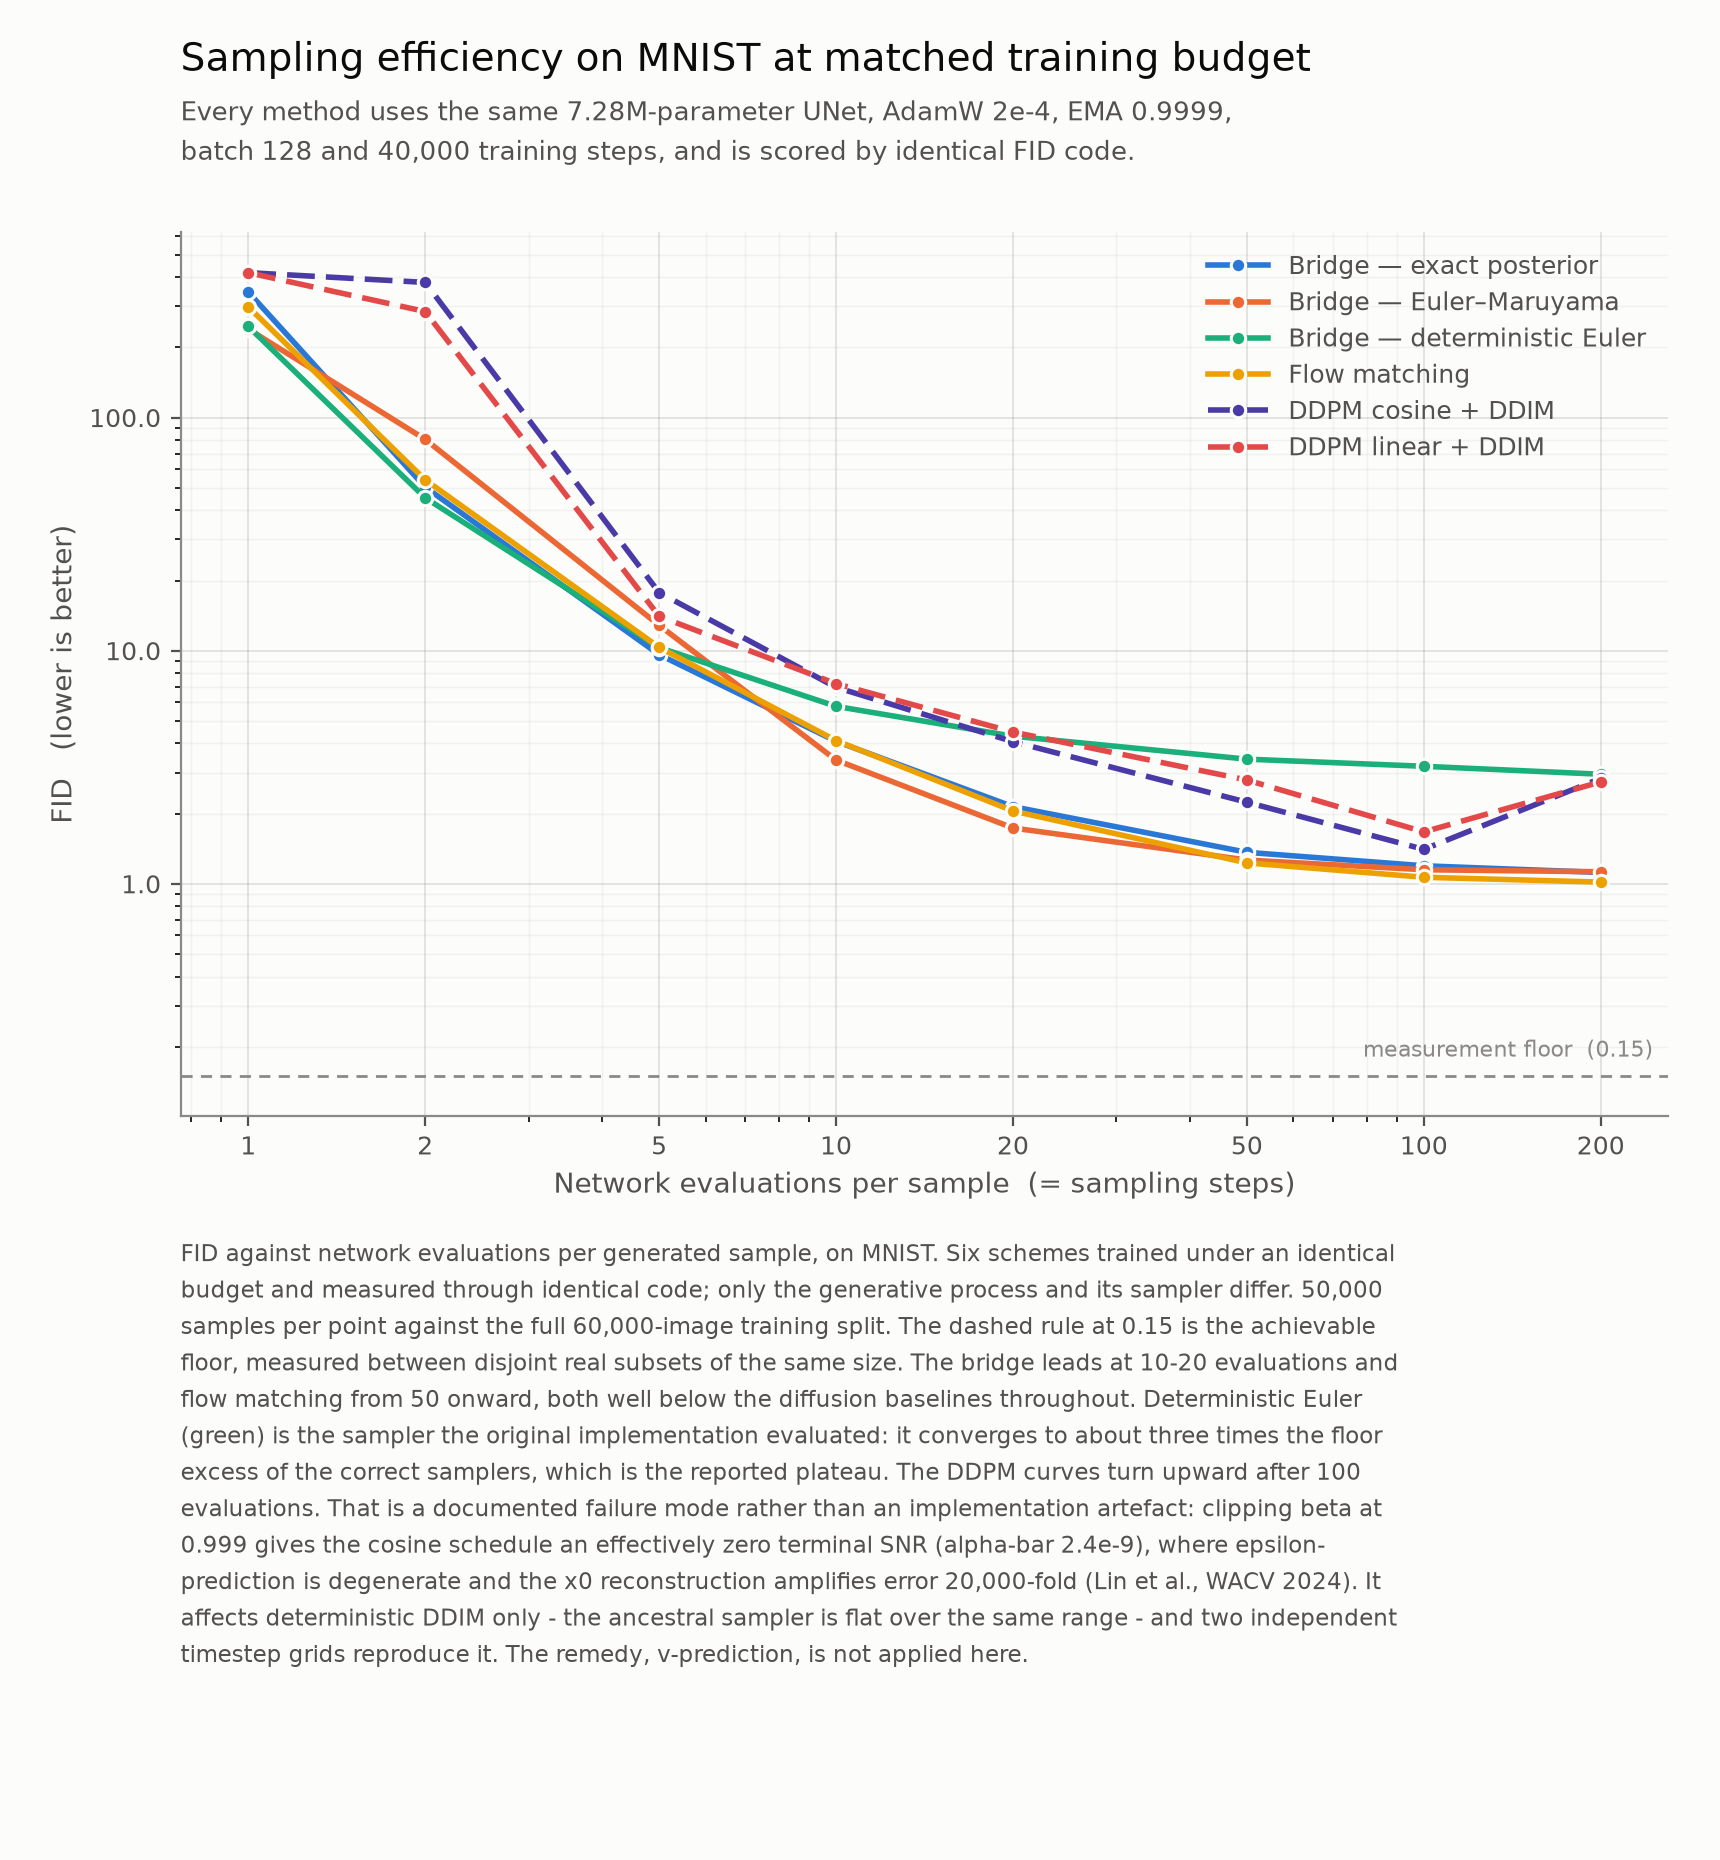
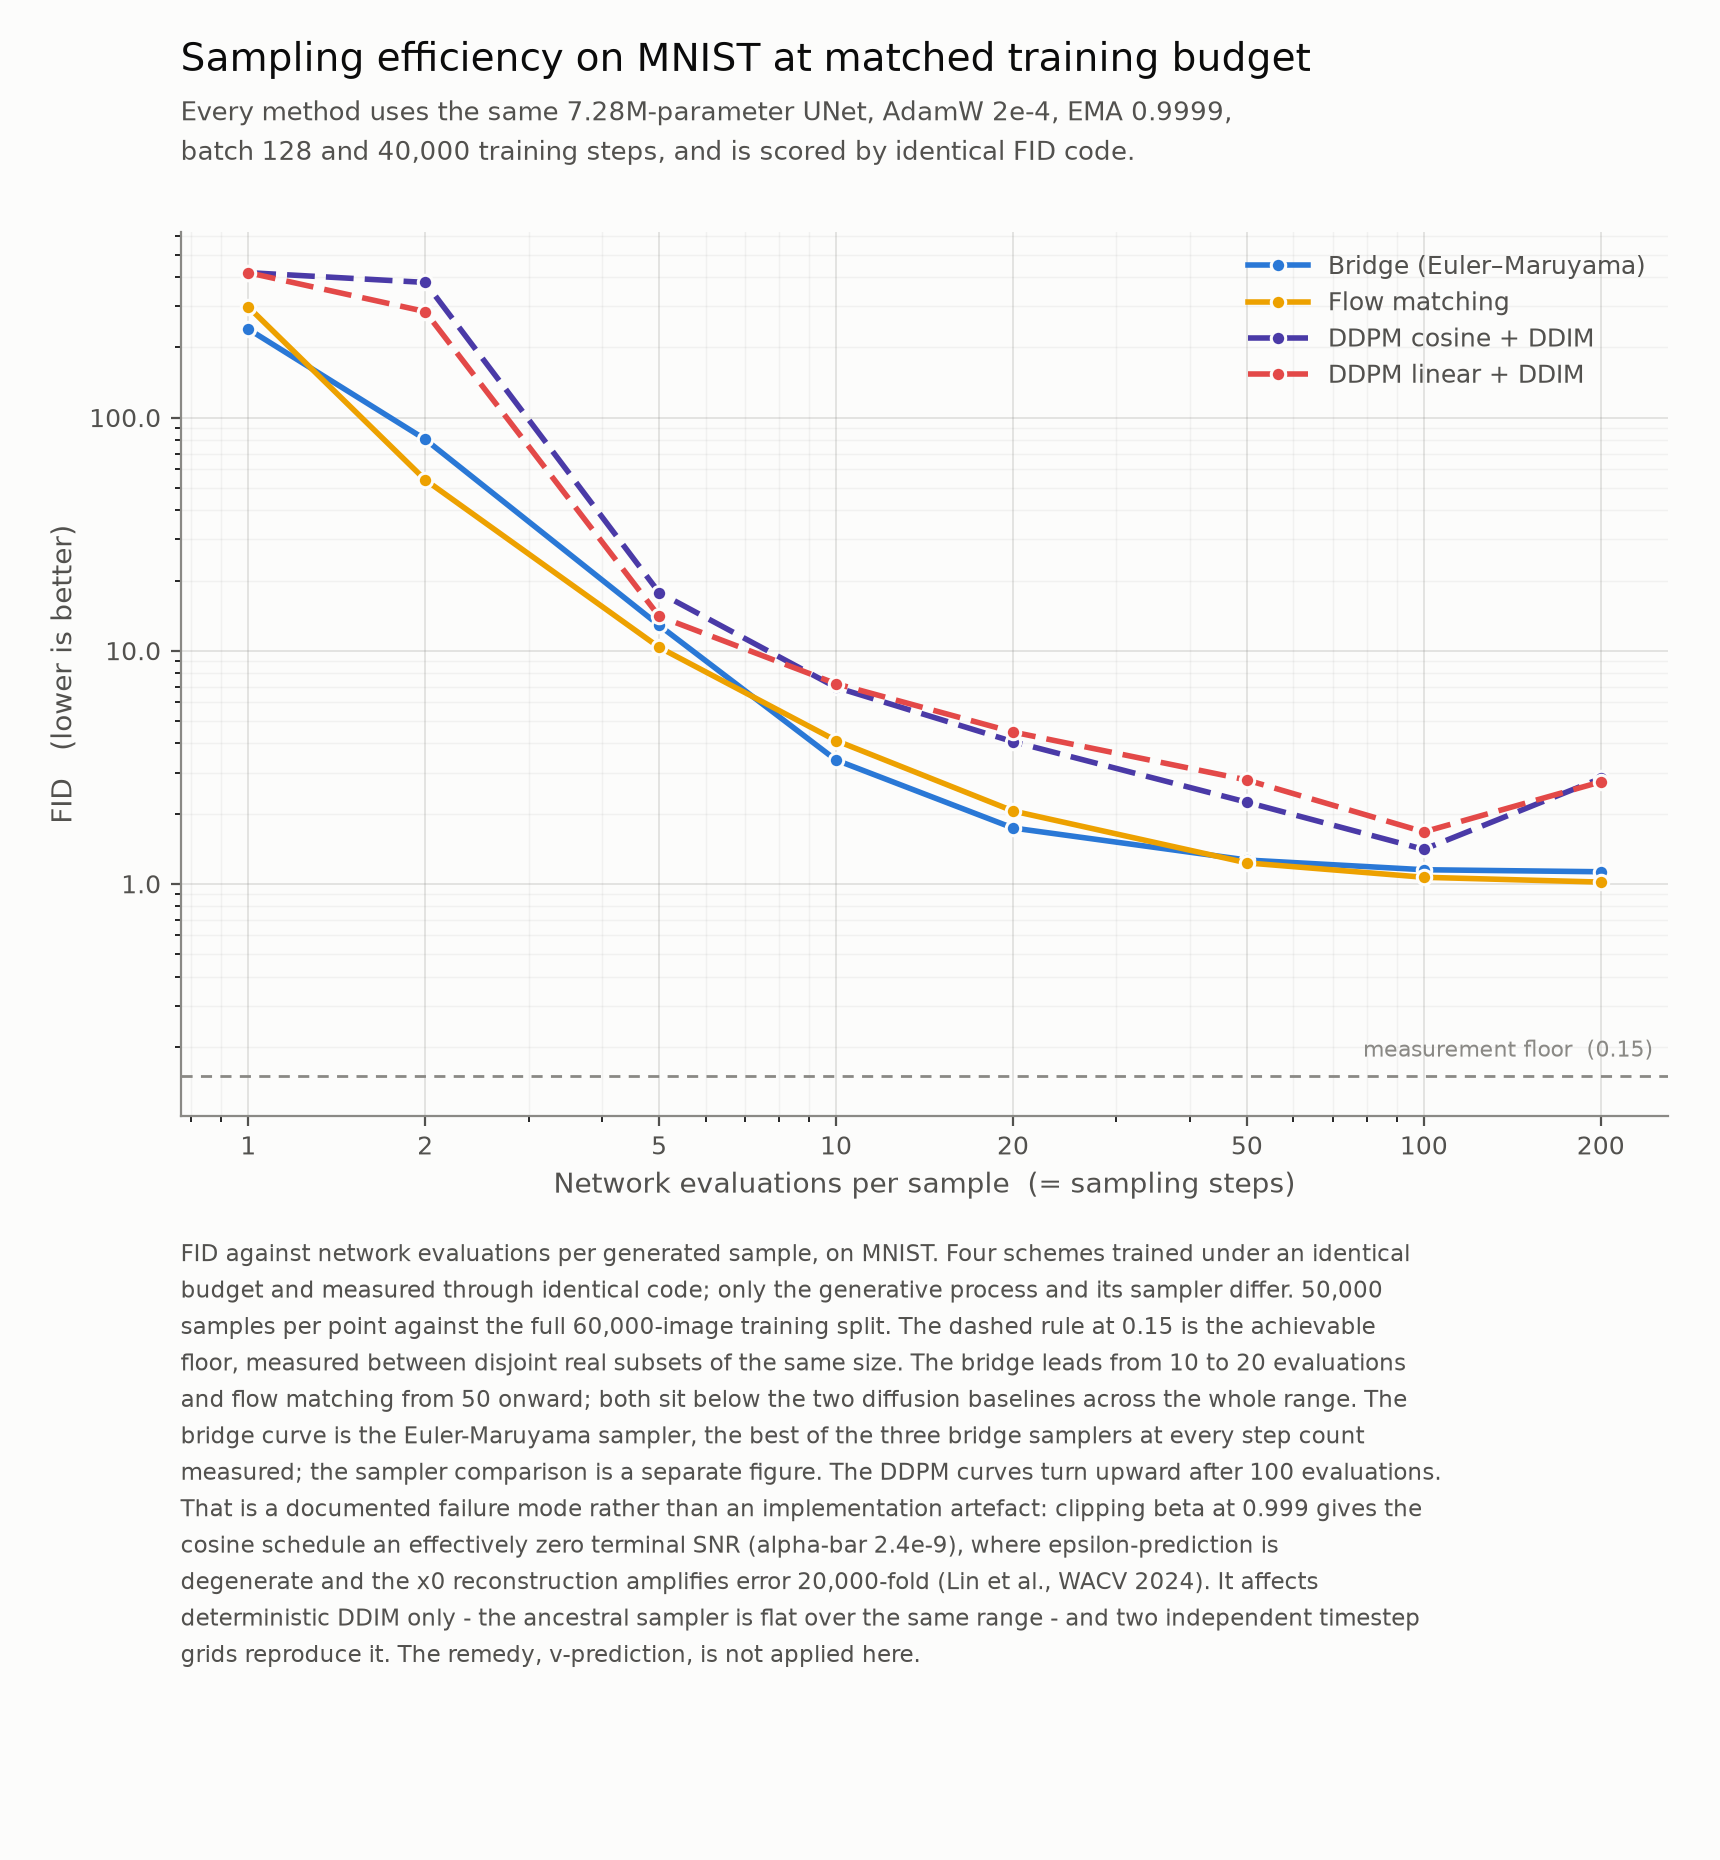
Trim the 1000-NFE column to the headline four rows
The published grid runs to 1000 steps, so the n=50,000 table has to reach it --
but not for every sampler. The column now covers only the rows that belong in a
method comparison:

  Bridge (Euler-Maruyama)   the best bridge curve: equal or better than the
                            exact-posterior sampler at every step count measured
                            (3.40 vs 4.09 at 10 NFE, 1.26 vs 1.36 at 50)
  Flow matching             the matched modern control
  DDPM cosine + DDIM        the stronger diffusion baseline
  DDPM linear + DDIM        the baseline the original paper used

Dropped: the exact-posterior and deterministic-Euler bridge samplers and both
ancestral DDPM samplers, at ~5.1 h saved per sampler -- 41 h down to 20 h. The
three-way sampler comparison that needs deterministic Euler already has a
complete 1 to 1000 sweep at n=5,000, which is where it belongs: it is a
diagnostic about samplers, not a claim about methods.

headline_figure.py gains --all_rows for that diagnostic view, with a caption
written for each row set so neither describes curves the other shows.

Claude-Session: https://claude.ai/code/session_01CJYPRwwbHYX4dVt4aYv5Xi

diff --git a/bridges/headline_figure.py b/bridges/headline_figure.py
@@ -31,7 +31,17 @@ PALETTE = ["#2a78d6", "#eb6834", "#1baf7a", "#eda100",
            "#e87ba4", "#008300", "#4a3aa7", "#e34948"]
 
 # (label, run dir, sampler, palette slot, linestyle)
-SERIES = [
+# the headline comparison: one bridge curve (Euler-Maruyama, the best of the three
+# at every step count measured), the matched modern control, and both diffusion
+# baselines. The three-way sampler comparison lives in its own diagnostic figure.
+SERIES_HEADLINE = [
+    ("Bridge (Euler–Maruyama)", "mnist_g0316_t1000", "euler",      0, "-"),
+    ("Flow matching",           "mnist_flow",        "flow_euler", 3, "-"),
+    ("DDPM cosine + DDIM",      "mnist_ddpm_cosine", "ddim",       6, (0, (5, 2))),
+    ("DDPM linear + DDIM",      "mnist_ddpm_linear", "ddim",       7, (0, (5, 2))),
+]
+
+SERIES_ALL = [
     ("Bridge — exact posterior",      "mnist_g0316_t1000", "bridge",     0, "-"),
     ("Bridge — Euler–Maruyama",       "mnist_g0316_t1000", "euler",      1, "-"),
     ("Bridge — deterministic Euler",  "mnist_g0316_t1000", "euler_det",  2, "-"),
@@ -39,6 +49,7 @@ SERIES = [
     ("DDPM cosine + DDIM",            "mnist_ddpm_cosine", "ddim",       6, (0, (5, 2))),
     ("DDPM linear + DDIM",            "mnist_ddpm_linear", "ddim",       7, (0, (5, 2))),
 ]
+SERIES = SERIES_HEADLINE
 
 
 def load(root, run_dir, sampler, n_samples, pattern="fid_n50k*.json"):
@@ -64,13 +75,16 @@ def main():
     p.add_argument("--caption", default=None)
     p.add_argument("--provisional", nargs="*", default=[],
                    help="series to mark with square markers as not yet trusted")
+    p.add_argument("--all_rows", action="store_true",
+                   help="include every bridge sampler, not just the headline four")
     p.add_argument("--compact", action="store_true",
                    help="no baked-in caption or title; for embedding where the "
                         "surrounding document supplies them")
     a = p.parse_args()
 
+    rows = SERIES_ALL if a.all_rows else SERIES_HEADLINE
     data = [(lbl, load(a.root, d, s, a.n_samples), slot, ls)
-            for lbl, d, s, slot, ls in SERIES]
+            for lbl, d, s, slot, ls in rows]
     data = [t for t in data if t[1]]
     if not data:
         print("no data"); return
@@ -89,12 +103,14 @@ def main():
                 textcoords="offset points", ha="right", va="bottom",
                 fontsize=8, color=INK_MUTED, zorder=2)
 
+    ends = []
     for lbl, series, slot, ls in data:
         xs = sorted(series)
         ys = [series[x] for x in xs]
         mark = "o" if lbl not in a.provisional else "s"
         ax.plot(xs, ys, color=PALETTE[slot], lw=2.0, ls=ls, marker=mark, ms=5.2,
                 mec=SURFACE, mew=1.1, label=lbl, zorder=3)
+        ends.append((ys[-1], xs[-1], lbl))
 
     allx = sorted({k for _, s, _, _ in data for k in s})
     ax.set_xscale("log"); ax.set_yscale("log")
@@ -133,16 +149,16 @@ def main():
     fig.text(0.105, 0.950, sub, fontsize=9.5, color=INK_SECONDARY,
              ha="left", va="top", linespacing=1.5)
 
-    cap = a.caption or (
-        "FID against network evaluations per generated sample, on MNIST. Six schemes "
+    cap_headline = (
+        "FID against network evaluations per generated sample, on MNIST. Four schemes "
         "trained under an identical budget and measured through identical code; only "
         "the generative process and its sampler differ. 50,000 samples per point against "
         "the full 60,000-image training split. The dashed rule at 0.15 is the achievable "
         "floor, measured between disjoint real subsets of the same size. "
-        "The bridge leads at 10-20 evaluations and flow matching from 50 onward, both "
-        "well below the diffusion baselines throughout. Deterministic Euler (green) is "
-        "the sampler the original implementation evaluated: it converges to about three "
-        "times the floor excess of the correct samplers, which is the reported plateau. "
+        "The bridge leads from 10 to 20 evaluations and flow matching from 50 onward; "
+        "both sit below the two diffusion baselines across the whole range. The bridge "
+        "curve is the Euler-Maruyama sampler, the best of the three bridge samplers at "
+        "every step count measured; the sampler comparison is a separate figure. "
         "The DDPM curves turn upward after 100 evaluations. That is a documented failure "
         "mode rather than an implementation artefact: clipping beta at 0.999 gives the "
         "cosine schedule an effectively zero terminal SNR (alpha-bar 2.4e-9), where "
@@ -151,6 +167,20 @@ def main():
         "ancestral sampler is flat over the same range - and two independent timestep "
         "grids reproduce it. The remedy, v-prediction, is not applied here."
     )
+    cap_all = (
+        "FID against network evaluations per generated sample, on MNIST, for the three "
+        "bridge samplers alongside flow matching and the two diffusion baselines, all "
+        "trained under an identical budget and measured through identical code. "
+        "50,000 samples per point against the full 60,000-image training split; the "
+        "dashed rule at 0.15 is the achievable floor between disjoint real subsets. "
+        "Deterministic Euler (green) is the sampler the original implementation "
+        "evaluated: it converges to about three times the floor excess of the two "
+        "correct bridge samplers, which is the reported step-count plateau. "
+        "The DDPM curves turn upward after 100 evaluations - a documented consequence "
+        "of the cosine schedule's effectively zero terminal SNR under epsilon-prediction "
+        "(Lin et al., WACV 2024), affecting deterministic DDIM only."
+    )
+    cap = a.caption or (cap_all if a.all_rows else cap_headline)
     fig.text(0.105, 0.335, "\n".join(textwrap.wrap(cap, 106)),
              fontsize=8.2, color=INK_SECONDARY, ha="left", va="top", linespacing=1.6)
 
